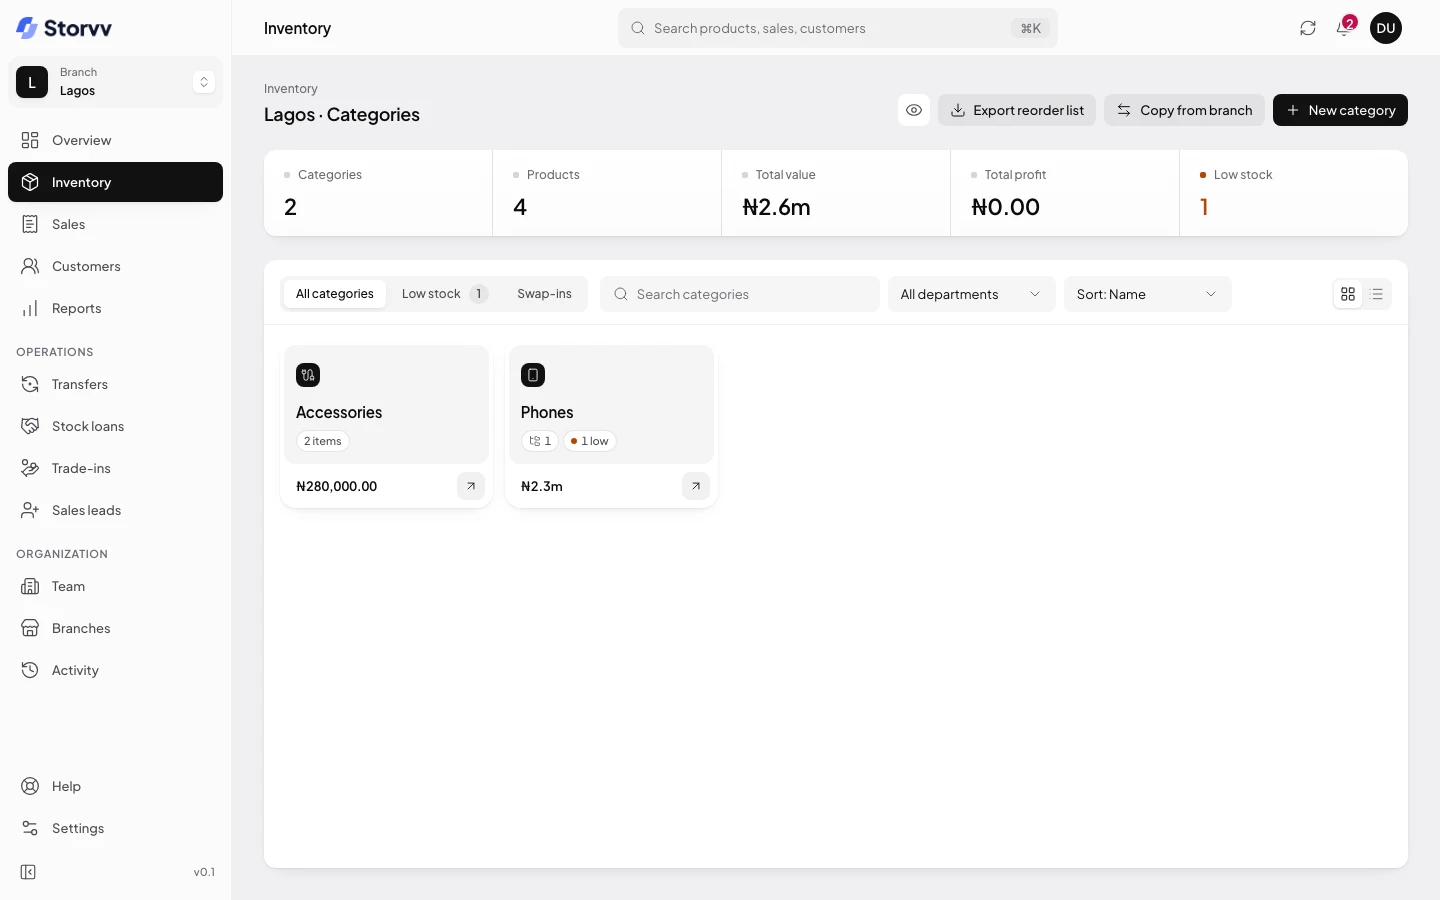
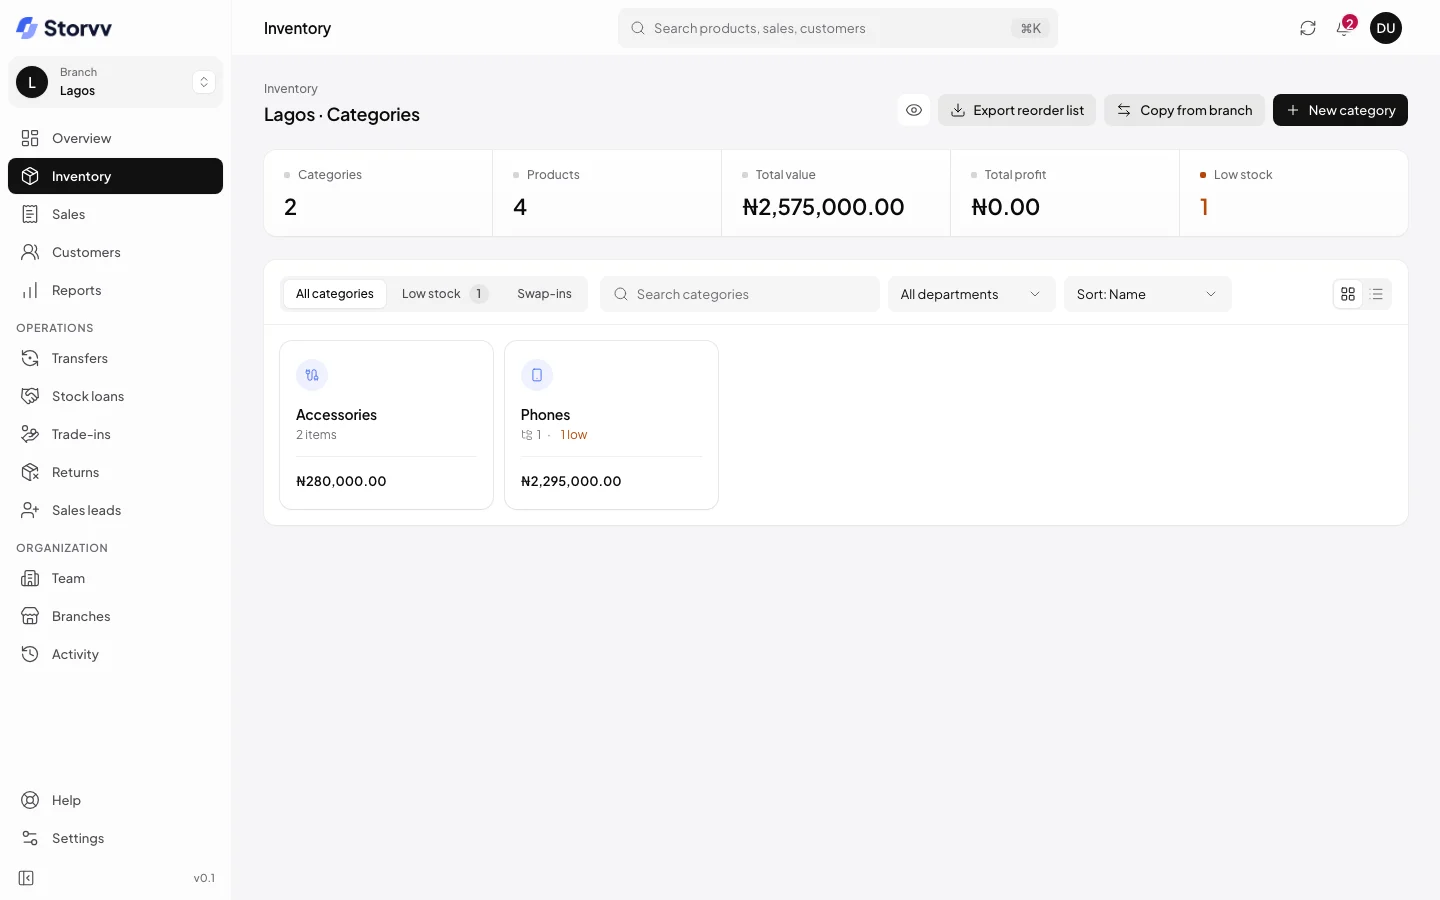
.

diff --git a/pages/features.vue b/pages/features.vue
@@ -158,17 +158,20 @@ import {
   FolderTree,
   Handshake,
   History,
+  PackageX,
   LayoutGrid,
   ListChecks,
   ClipboardList,
   Repeat,
   Search,
+  SearchCheck,
   Send,
   ShieldCheck,
   ShoppingCart,
   Smartphone,
   Store,
   TabletSmartphone,
+  Truck,
   UserCog,
   Users,
   Wallet,
@@ -217,6 +220,9 @@ const areas: Area[] = [
       { icon: FolderTree, title: 'Categories', plan: 'all' },
       { icon: ListChecks, title: 'Serial or quantity', plan: 'all' },
       { icon: BellRing, title: 'Low-stock alerts', plan: 'all' },
+      { icon: PackageX, title: 'Write-offs', plan: 'all' },
+      { icon: History, title: 'Stock out log', plan: 'all' },
+      { icon: Truck, title: 'Supplier returns', plan: 'medium' },
       { icon: Copy, title: 'Duplicate categories', plan: 'medium' },
     ],
   },
@@ -232,6 +238,7 @@ const areas: Area[] = [
       { icon: Zap, title: 'Quick Sale', plan: 'all' },
       { icon: Send, title: 'Receipts anywhere', plan: 'all' },
       { icon: Repeat, title: 'Returns & refunds', plan: 'all' },
+      { icon: SearchCheck, title: 'Hold returns for inspection', plan: 'all' },
       { icon: ClipboardList, title: 'Sales leads', plan: 'medium' },
       { icon: Wallet, title: 'Customer balances', plan: 'medium' },
     ],
@@ -278,7 +285,7 @@ const areas: Area[] = [
     shotAlt: 'Storvv transfers screen with stock moving between branches and approval status',
     items: [
       { icon: Building2, title: 'A second store', plan: 'medium' },
-      { icon: ArrowLeftRight, title: 'Stock transfers', plan: 'enterprise' },
+      { icon: ArrowLeftRight, title: 'Stock transfers', plan: 'medium' },
       { icon: Copy, title: 'Copy from branch', plan: 'enterprise' },
       { icon: Handshake, title: 'Stock loans', plan: 'enterprise' },
     ],
@@ -310,9 +317,9 @@ const ladder = [
     name: 'Medium',
     scope: 'Up to 2 stores · 5 staff each',
     unlocks: [
-      'Analytics and exports',
-      'Sales leads and customer balances',
-      '50 WhatsApp receipts a month',
+      'Stock transfers between your branches',
+      'Analytics, sales leads and customer balances',
+      'Supplier returns and the full stock out log',
     ],
     featured: true,
   },
@@ -320,7 +327,7 @@ const ladder = [
     name: 'Enterprise',
     scope: '5 stores · 10 staff each · add more',
     unlocks: [
-      'Stock transfers between branches',
+      'Add stores or staff seats any time',
       'Copy from branch and stock loans',
       'Unlimited WhatsApp receipts',
     ],

diff --git a/plugins/03.preferences.client.ts b/plugins/03.preferences.client.ts
@@ -1,4 +1,5 @@
 import { watch } from 'vue'
+import { useUserStore } from '~/stores/user'
 import { isCapacitorNative } from '~/utils/capacitor-env'
 import { withTimeout } from '~/utils/with-timeout'
 import { isDemoModeActive } from '~/utils/demo-mode'
@@ -7,10 +8,31 @@ import { scheduleNativeIdleWork } from '~/utils/capacitor-native-perf'
 export default defineNuxtPlugin(() => {
   if (import.meta.server) return
 
+  // The demo shop shows its own settings (naira, Lagos time) on every demo page, in memory only;
+  // leaving the demo puts the visitor's own saved preferences back.
+  const router = useRouter()
+  const userStore = useUserStore()
+  let demoApplied = false
+  watch(
+    [() => router.currentRoute.value.path, () => userStore.userData?.preferences],
+    async () => {
+      const { usePreferences } = await import('~/composables/usePreferences')
+      if (isDemoModeActive()) {
+        usePreferences().applyDemoPreferences()
+        demoApplied = true
+      } else if (demoApplied) {
+        usePreferences().initializeLocalOnly()
+        demoApplied = false
+      }
+    },
+    { immediate: true }
+  )
+
   if (isDemoModeActive()) {
     void (async () => {
       const { usePreferences } = await import('~/composables/usePreferences')
       usePreferences().initializeLocalOnly()
+      usePreferences().applyDemoPreferences()
     })()
     return
   }

diff --git a/pages/index.vue b/pages/index.vue
@@ -134,11 +134,11 @@ const contactOpen = ref(false)
 const faq: MkFaqItem[] = [
   {
     q: 'Is Micro really free?',
-    a: 'Yes. One store, up to 2 staff, inventory, sales, receipts and customers. No card.',
+    a: 'Yes. One store, up to 2 staff, inventory, sales, receipts, customers and returns. No card, no time limit.',
   },
   {
     q: 'What do Medium and Enterprise add?',
-    a: 'Medium: second store, analytics, leads, unlimited WhatsApp receipts. Enterprise: 5 stores, 10 staff each, transfers. Add more any time. <a href="/pricing">Compare plans</a>.',
+    a: 'Medium: a second store, transfers between them, reports, sales leads, customer balances, supplier returns and 50 WhatsApp receipts a month. Enterprise: 5 stores with 10 staff each, stock loans and unlimited WhatsApp receipts; add stores or staff seats any time. <a href="/pricing">Compare plans</a>.',
     html: true,
   },
   {
@@ -159,7 +159,7 @@ const faq: MkFaqItem[] = [
   },
   {
     q: 'Which payments can I record?',
-    a: 'Cash, card, transfer, OPay, Moniepoint, Palmpay, Kuda, USSD, mobile money, and splits. Edit the list in Settings.',
+    a: 'Cash, card, transfer, OPay, Moniepoint, PalmPay, Kuda, USSD, mobile money, and splits. Edit the list in Settings.',
   },
   {
     q: 'Is my data safe?',

diff --git a/composables/usePreferences.ts b/composables/usePreferences.ts
@@ -385,6 +385,17 @@ export const usePreferences = () => {
     return formatDate(date, { includeTime: true })
   }
 
+  /**
+   * The demo shop's own settings (naira, Lagos time). Kept in memory only, so a visitor's real
+   * preferences saved in this browser are never overwritten by the demo.
+   */
+  const applyDemoPreferences = () => {
+    const demo = userStore.userData?.preferences as Partial<UserPreferences> | undefined
+    if (!demo) return
+    preferences.value = { ...defaultPreferences, ...demo }
+    baseCurrency.value = demo.baseCurrency || demo.currency || baseCurrency.value
+  }
+
   /** Local storage only - safe for Capacitor cold start (no network). */
   const initializeLocalOnly = () => {
     loadFromLocalStorage()
@@ -394,7 +405,9 @@ export const usePreferences = () => {
   const initialize = async () => {
     loadFromLocalStorage()
     const { isDemoModeActive } = await import('~/utils/demo-mode')
-    if (!isDemoModeActive()) {
+    if (isDemoModeActive()) {
+      applyDemoPreferences()
+    } else {
       await loadFromFirestore()
     }
 
@@ -421,5 +434,6 @@ export const usePreferences = () => {
     formatTime,
     initialize,
     initializeLocalOnly,
+    applyDemoPreferences,
   }
 }

diff --git a/tests/unit/mk-flow.component.spec.ts b/tests/unit/mk-flow.component.spec.ts
@@ -34,7 +34,7 @@ describe('MkFlow', () => {
   it('says which plan unlocks the steps that are not on every plan', () => {
     const wrapper = mount(MkFlow)
     expect(wrapper.find('#flow-update .mk-tag').text()).toBe('Balances on Medium')
-    expect(wrapper.find('#flow-move .mk-tag').text()).toBe('Transfers on Enterprise')
+    expect(wrapper.find('#flow-move .mk-tag').text()).toBe('Transfers on Medium')
     expect(wrapper.find('#flow-stock .mk-tag').exists()).toBe(false)
   })
 })

diff --git a/composables/useFirebase.ts b/composables/useFirebase.ts
@@ -27,7 +27,8 @@ export const useFirebase = () => {
    */
   const getAnalyticsInstance = (): Analytics | null => {
     if (import.meta.server) return null
-    if (isCapacitorNative() || isPublicPayPath(window.location.pathname)) return null
+    const path = (globalThis as { location?: { pathname?: string } }).location?.pathname ?? ''
+    if (isCapacitorNative() || isPublicPayPath(path)) return null
 
     try {
       const app = getApp()

diff --git a/components/marketing/MkFlow.vue b/components/marketing/MkFlow.vue
@@ -92,7 +92,7 @@ const steps = [
     short: 'Transfer & reorder',
     title: 'Move stock where it sells',
     text: 'Send stock between branches with approvals, and export a reorder list of everything running low.',
-    plan: 'Transfers on Enterprise',
+    plan: 'Transfers on Medium',
     src: '/marketing/app/branches.webp',
     alt: 'Storvv transfers: stock moving between branches with approval status',
   },

diff --git a/components/marketing/MkFeatureMenu.vue b/components/marketing/MkFeatureMenu.vue
@@ -37,7 +37,7 @@ const features: MkNavMenuItem[] = [
     icon: Boxes,
     title: 'Inventory',
     tint: 'sand',
-    text: "Know what's on every shelf, by category, serial or IMEI.",
+    text: "Know what's on every shelf, by serial or IMEI, and why anything left.",
     to: '/features?area=inventory#explore',
   },
   {
